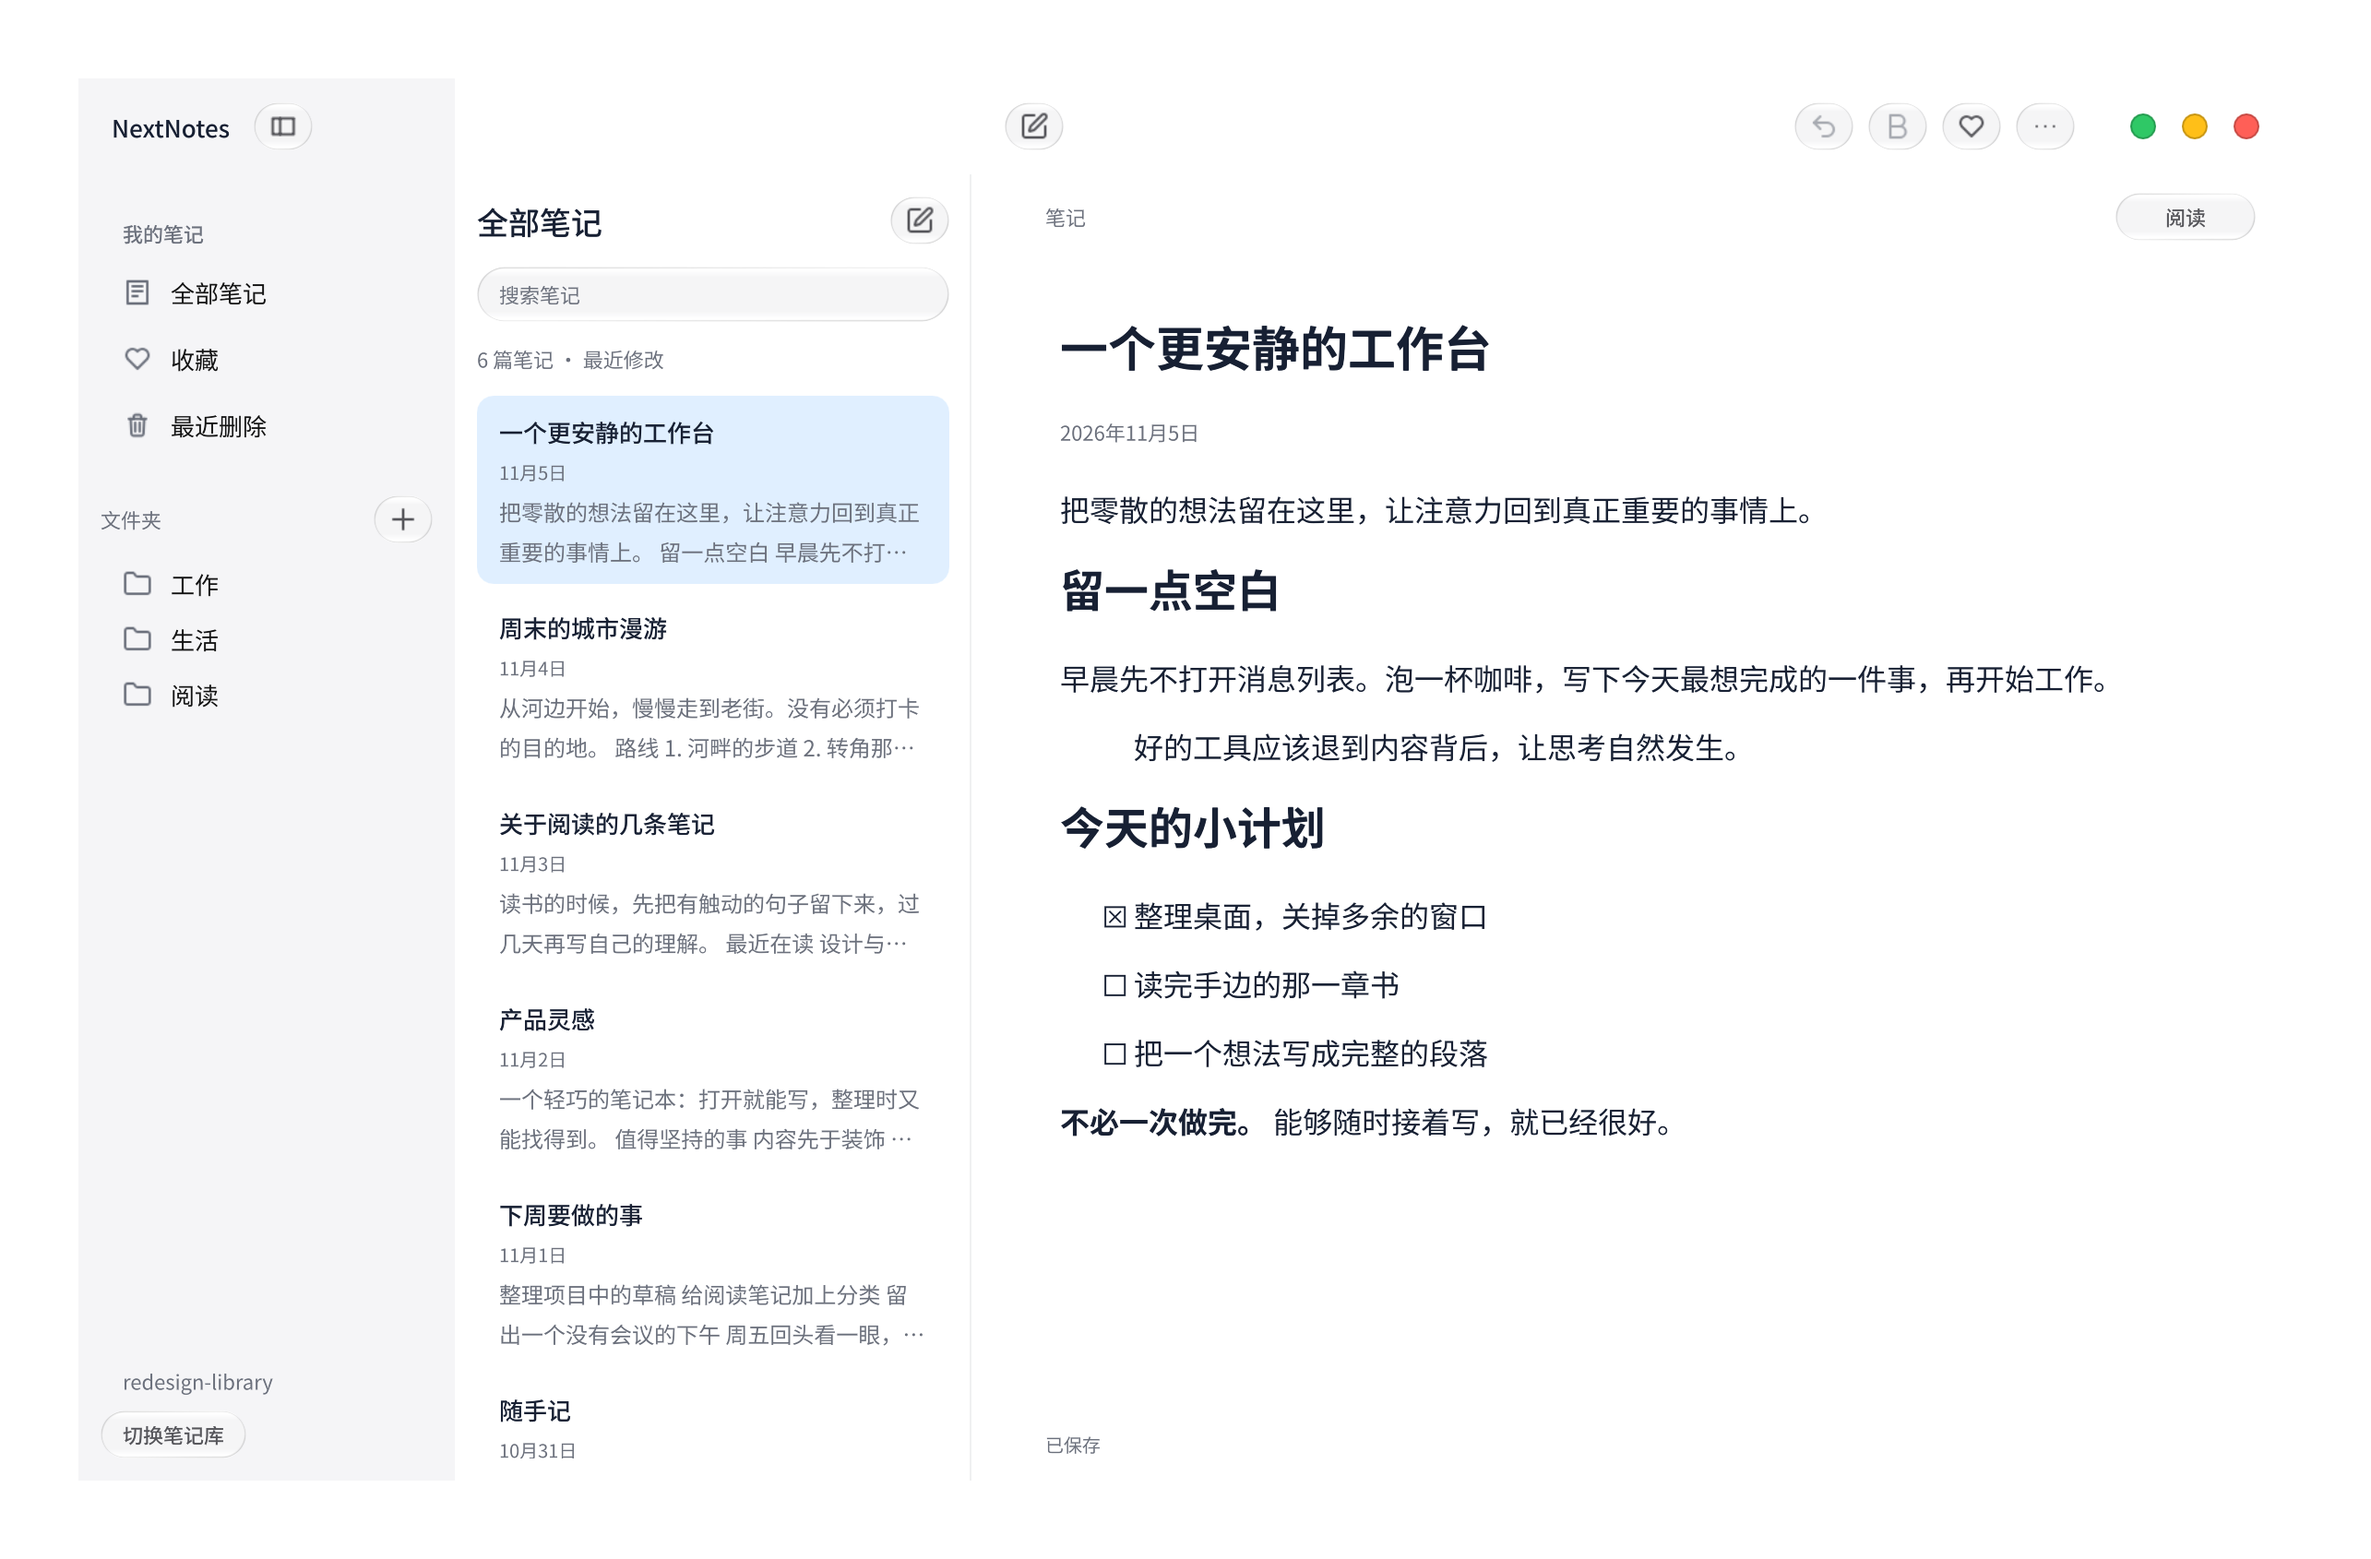
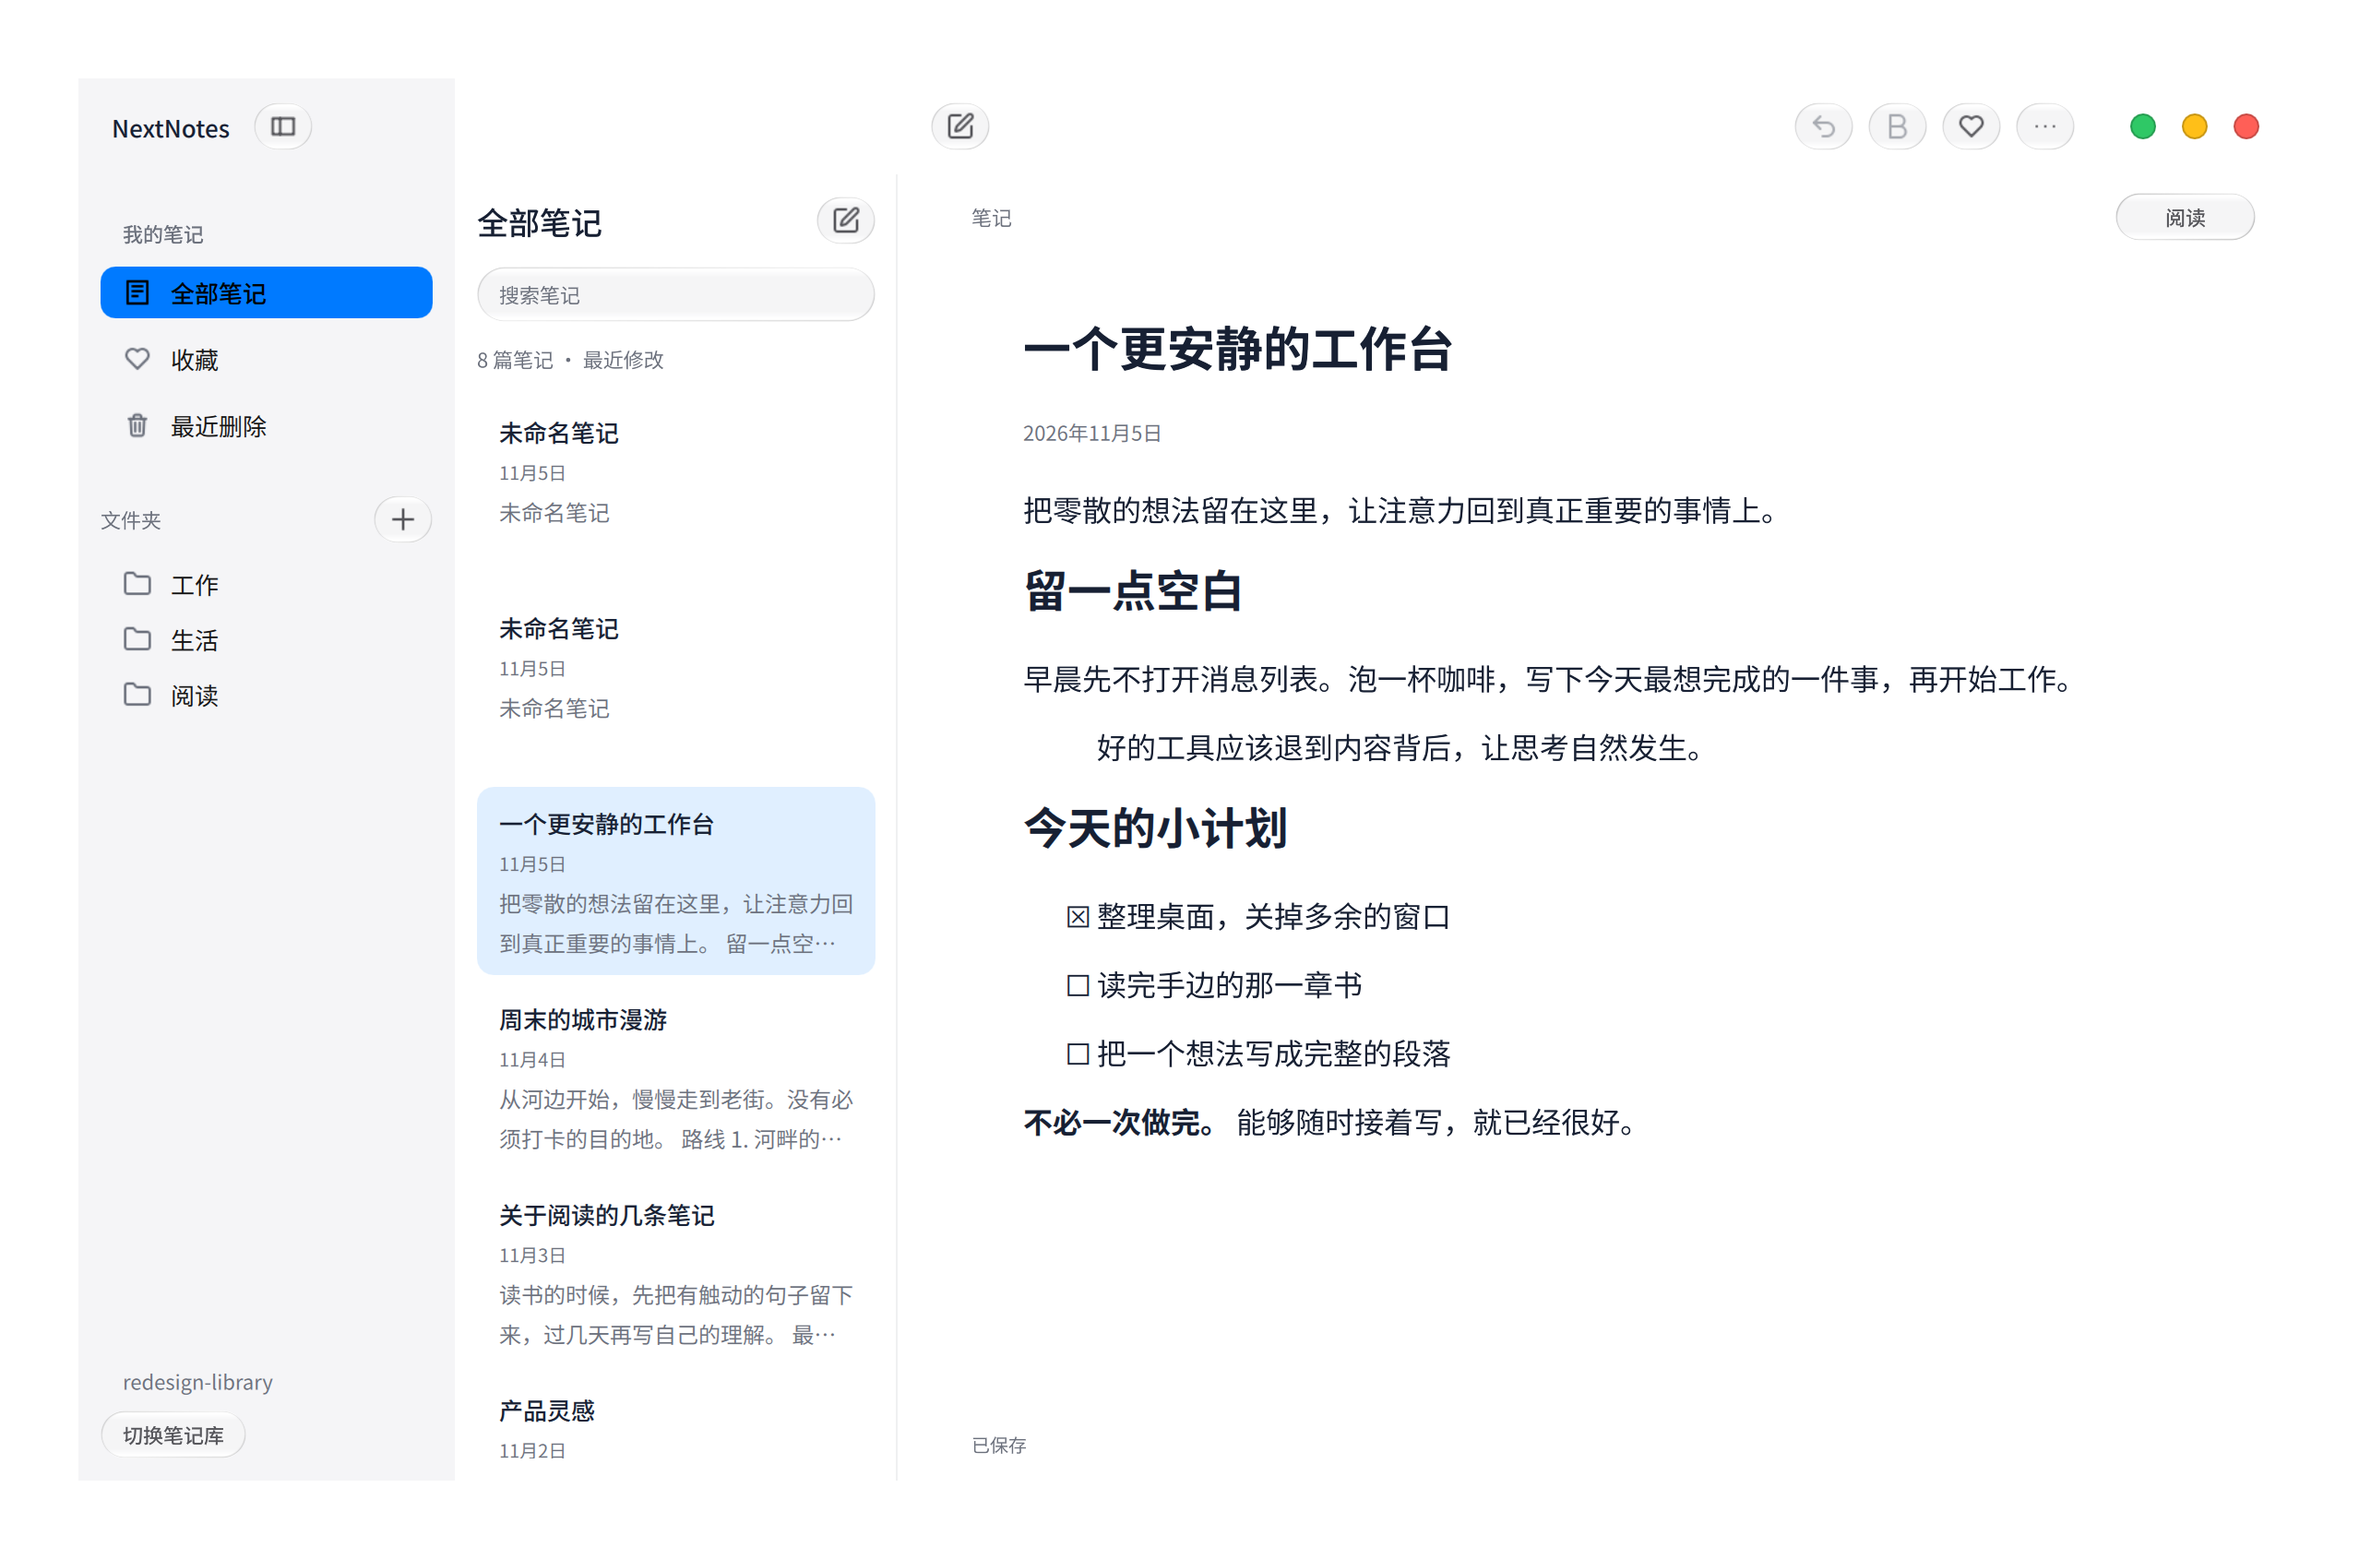
Keep navigation selection controlled by active filter

diff --git a/qml/Main.qml b/qml/Main.qml
@@ -140,6 +140,8 @@ ApplicationWindow {
         KosToolTip { target: parent; backdrop: readingBackdrop; text: parent.help }
     }
     component NavigationRow: LiquidNavigationButton {
+        // Selection belongs to controller.filter; activation must not toggle it off.
+        checkable: false
         specificationForm: true; specificationFontSize: tokens.navigationSize
         implicitHeight: tokens.navigationHeight
         specificationSelectedFillColor: AppTheme.accent
@@ -288,7 +290,7 @@ ApplicationWindow {
                 visible: !root.showSidebar; Layout.fillWidth: true
                 LiquidActionButton { text: "全部"; materialForm: true; onClicked: controller.filter = "all" }
                 LiquidActionButton { text: "收藏"; materialForm: true; onClicked: controller.filter = "favorite" }
-                LiquidActionButton { text: "资料库"; materialForm: true; onClicked: root.showRecovery() }
+                LiquidActionButton { text: "最近删除"; materialForm: true; onClicked: root.showRecovery() }
                 LiquidActionButton { id: smallFolderButton; text: "文件夹"; materialForm: true; onClicked: { folderPanel.anchorItem = smallFolderButton; folderPanel.open() } }
             }
             Label { text: controller.notes.length + " 篇笔记 · 最近修改"; color: AppTheme.mutedText; font.pixelSize: 11 }
